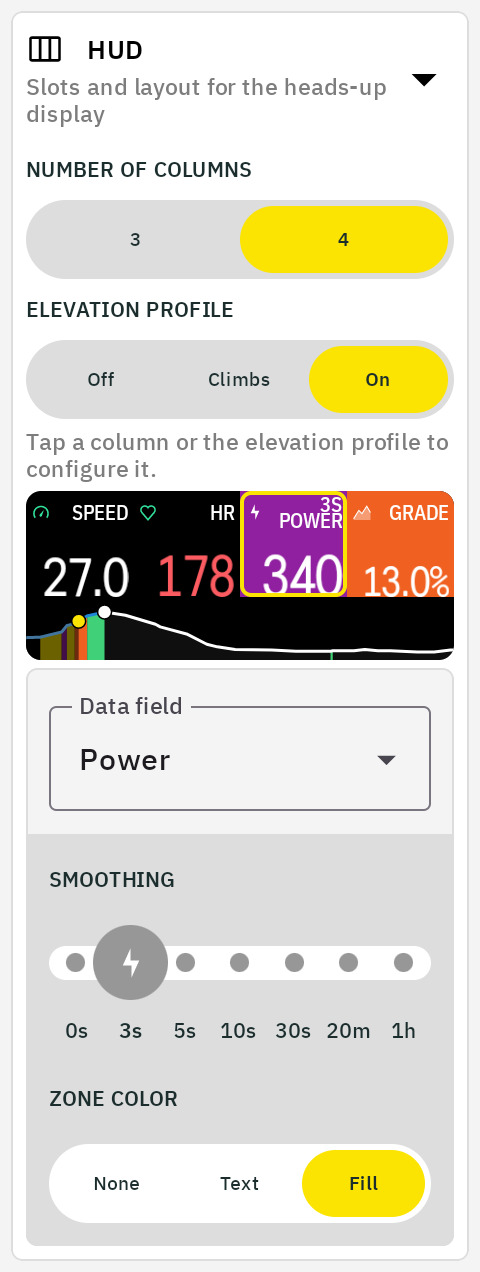
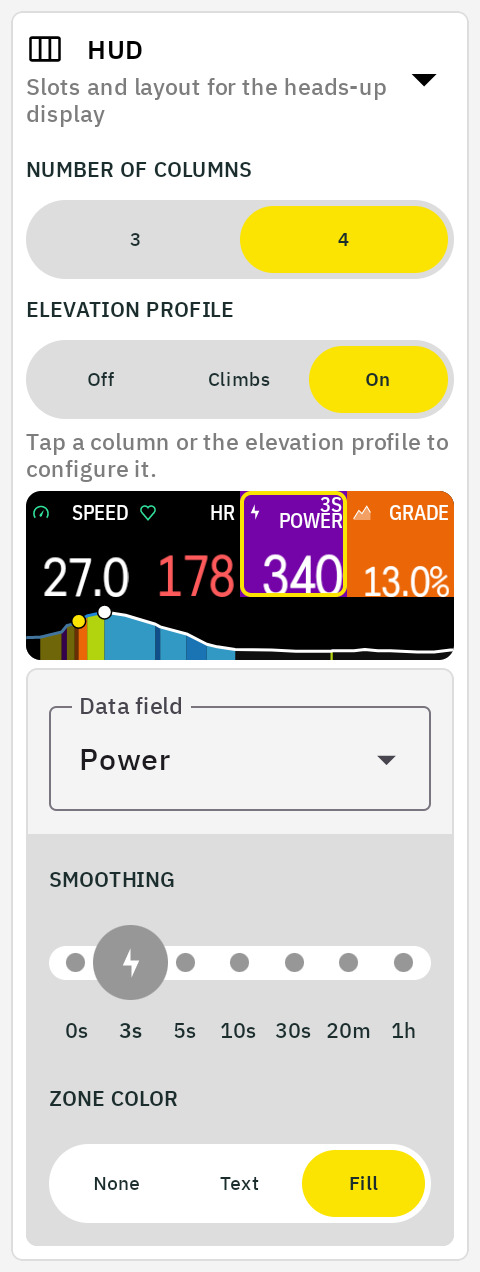
docs(screenshots): rerender config shots in Barberfish

Changed region(s): [[0.5, 0.3679, 0.9375, 0.4906], [0.1562, 0.4599, 0.5, 0.5212]]

diff --git a/docs/algorithms.md b/docs/algorithms.md
@@ -50,7 +50,7 @@ Every segment now has a grade, and Emphasis sets the grade at which color starts
   <tr>
     <td>Grade map</td>
     <td align="center"><img src="screenshots/emphasis_map_all.jpg" alt="The same Barberfish bar as the Grade Map card shows it: every band colored, so no neutral appears"></td>
-    <td align="center"><img src="screenshots/emphasis_map_default.jpg" alt="Barberfish bar as the Grade Map card shows it: the flat band between the handles painted in the map's green-grey neutral"></td>
+    <td align="center"><img src="screenshots/emphasis_map_default.jpg" alt="Barberfish bar as the Grade Map card shows it: the flat band between the handles painted in the map's muted green neutral"></td>
     <td align="center"><img src="screenshots/emphasis_map_climbs.jpg" alt="Karoo bar as the Grade Map card shows it: the stretch from 0 to 5 percent painted in the map's plain grey neutral"></td>
   </tr>
 </table>
